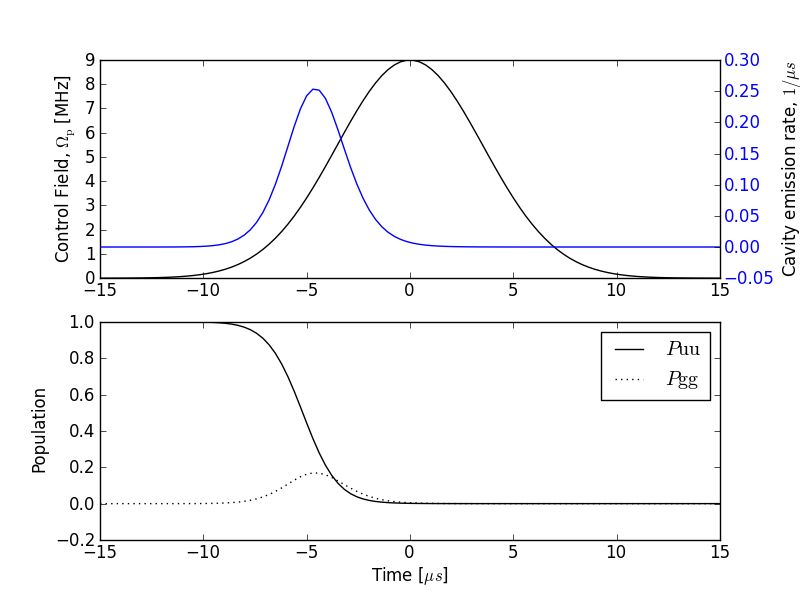
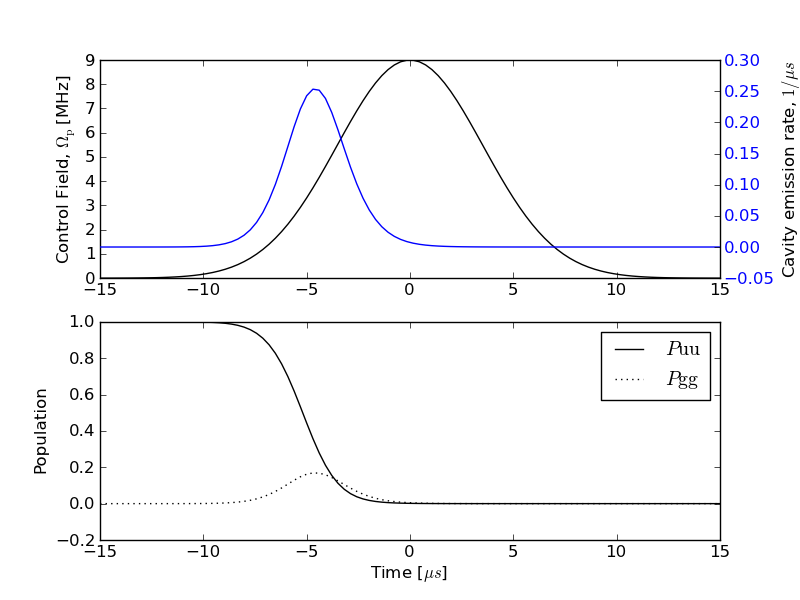
use local figures

diff --git a/doc/examples/examples-single-photon-source.rst b/doc/examples/examples-single-photon-source.rst
@@ -11,7 +11,7 @@ This example highlights a single photon source based on a three level atom stron
 
 `Download example <http://qutip.googlecode.com/svn/doc/examples/examples-single-photon-source.py>`_
       
-.. figure:: http://qutip.googlecode.com/svn/wiki/images/examples-single-photon.png
+.. figure:: examples-single-photon-source.png
     :align: center
     
     State Population and Emission from Cavity
